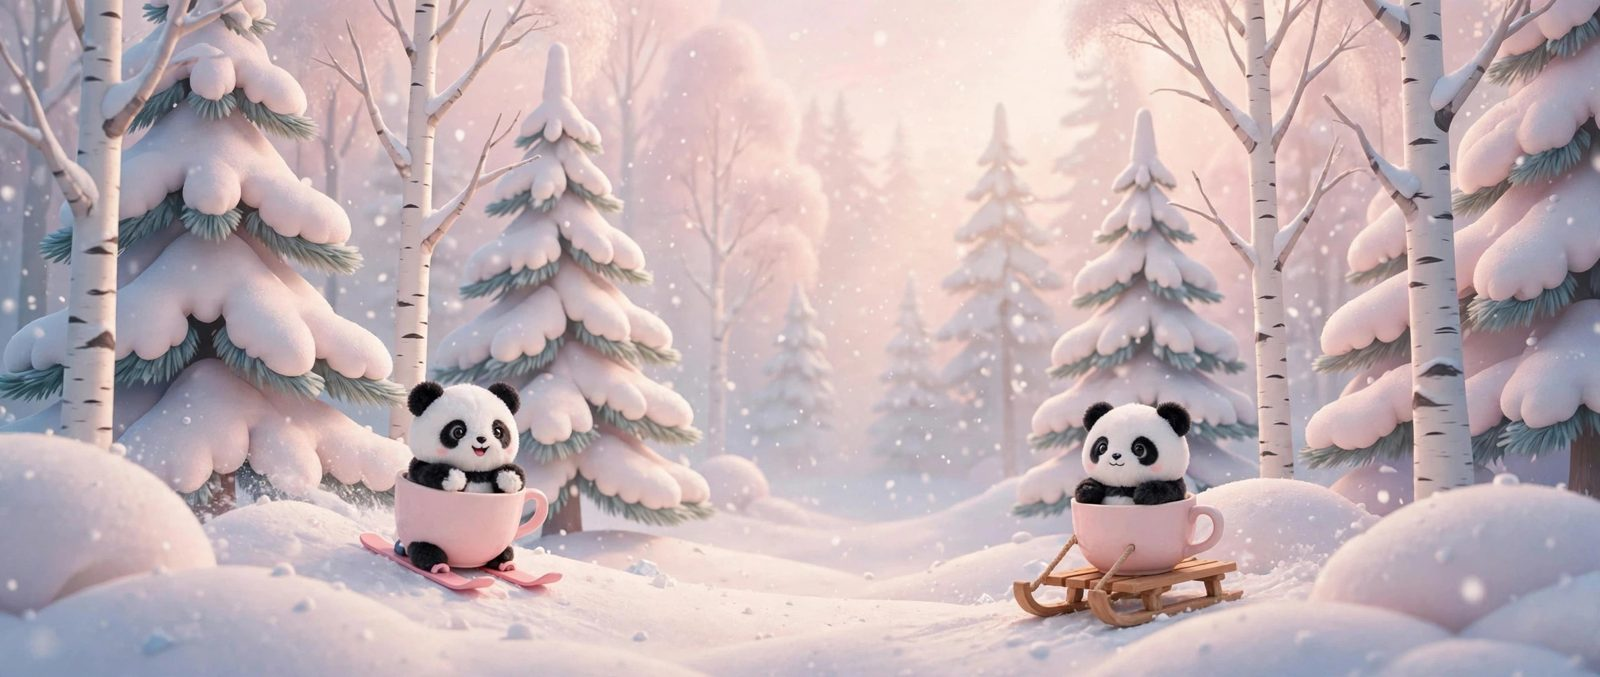
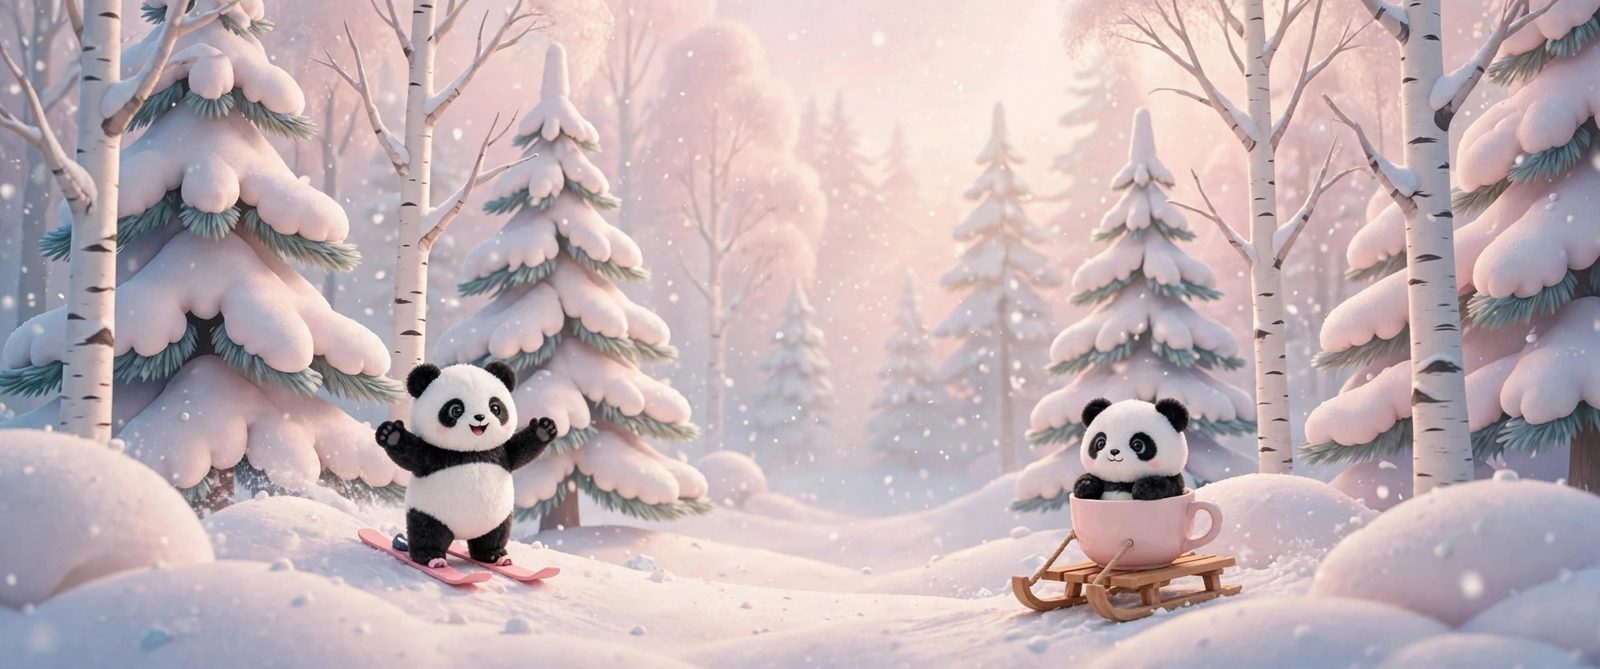
v9 fixes: skiing panda without cup, cap slide image, PDP for all products
- Background: skiing panda now stands on its skis with no cup
- Carousel: Journal Kit slide removed, Panda Cap slide image fixed
  (catalog-models-cap.jpg, the previous filename did not exist)
- Products whose photo does not flip now open their PDP on photo click

diff --git a/index.html b/index.html
@@ -73,7 +73,7 @@ footer{padding:30px 18px 44px;text-align:center;color:var(--soft);font-size:13px
 footer a{color:var(--pink-deep);font-weight:700;text-decoration:none}
 
 .hero{position:relative;overflow:hidden}
-.hero::before{content:"";position:absolute;inset:0;background:url('images/bg-winter.jpg?v=8') center/cover no-repeat;opacity:.5;z-index:0}
+.hero::before{content:"";position:absolute;inset:0;background:url('images/bg-winter.jpg?v=9') center/cover no-repeat;opacity:.5;z-index:0}
 .hero>*{position:relative;z-index:1}
 .carousel{position:relative;width:min(600px,92vw);margin:0 auto;border-radius:24px;overflow:hidden;border:6px solid #fff;box-shadow:0 10px 30px rgba(199,78,114,.25);background:#fdf3f5}
 .carousel .track{display:flex;transition:transform .55s ease}
@@ -110,7 +110,7 @@ footer a{color:var(--pink-deep);font-weight:700;text-decoration:none}
 </style></head><body>
 <div class="bar">🎉 Opening soon — <b>Free delivery over <span id="thresh">£35</span></b> in the UK, Ireland &amp; Europe · New drops every Friday!</div>
 <header><div class="logo"><img src="images/logo-badge.png" alt="Cuppa Panda logo">Cuppa<span>Panda</span></div><nav><a href="#best">Bestsellers</a><a href="#merch">Merch</a><a href="#hero-pick">Journal Kit</a><a href="#blindbox">Blind Box</a><a href="#treats">Little Treats</a></nav><div class="curry"><button data-cur="GBP" class="on">£ GBP</button><button data-cur="EUR">€ EUR</button><button data-cur="USD">$ USD</button></div><button class="cartbtn" id="cartBtn" type="button">🛒 Cart (<span id="cartCount">0</span>)</button></header>
-<div class="hero"><div class="carousel" id="heroCarousel"><div class="track"><a class="slide" href="#merch"><img src="images/merch-cap-cream.jpg" alt="Panda Cap — Embroidered"><span class="cap">Panda Cap · <span class="p" data-usd="26.99">$26.99</span></span></a><a class="slide" href="#hero-pick"><img src="images/A-journal-kit-1.jpg" alt="DIY Journal Kit"><span class="cap">DIY Journal Kit · <span class="p" data-usd="18.99">$18.99</span></span></a><a class="slide" href="#best"><img src="images/B-panda-plush-bag-charm-1.jpg" alt="Panda Plush Bag Charm — 15cm"><span class="cap">Panda Plush Bag Charm · <span class="p" data-usd="9.99">$9.99</span></span></a><a class="slide" href="#merch"><img src="images/merch-hoodie-pink.jpg" alt="Cuppa Panda Hoodie — Pink"><span class="cap">Cuppa Panda Hoodie · <span class="p" data-usd="44.99">$44.99</span></span></a><a class="slide" href="#blindbox"><img src="images/C-capybara-blind-box-1.jpg" alt="Capybara Blind Box Figure"><span class="cap">Capybara Blind Box · <span class="p" data-usd="6.49">$6.49</span></span></a><a class="slide" href="#merch"><img src="images/catalog-models-backpack.jpg" alt="Cuppa Panda Backpack — Pink"><span class="cap">Cuppa Panda Backpack · <span class="p" data-usd="47.99">$47.99</span></span></a></div><button class="carbtn prev" type="button" aria-label="Previous slide">‹</button><button class="carbtn next" type="button" aria-label="Next slide">›</button><div class="dots"></div></div><h1>Cute things for your <em>desk</em> &amp; your <em>bag</em></h1><p>Stationery, bag charms and blind boxes — hand-picked by a 14-year-old, for girls who love cute. Now shipping to the UK, Ireland &amp; Europe!</p><a class="btn" href="#best">Shop bestsellers</a><a class="btn ghost" href="#blindbox">Blind boxes 🎁</a></div>
+<div class="hero"><div class="carousel" id="heroCarousel"><div class="track"><a class="slide" href="#merch"><img src="images/catalog-models-cap.jpg" alt="Panda Cap — Embroidered"><span class="cap">Panda Cap · <span class="p" data-usd="26.99">$26.99</span></span></a><a class="slide" href="#best"><img src="images/B-panda-plush-bag-charm-1.jpg" alt="Panda Plush Bag Charm — 15cm"><span class="cap">Panda Plush Bag Charm · <span class="p" data-usd="9.99">$9.99</span></span></a><a class="slide" href="#merch"><img src="images/merch-hoodie-pink.jpg" alt="Cuppa Panda Hoodie — Pink"><span class="cap">Cuppa Panda Hoodie · <span class="p" data-usd="44.99">$44.99</span></span></a><a class="slide" href="#blindbox"><img src="images/C-capybara-blind-box-1.jpg" alt="Capybara Blind Box Figure"><span class="cap">Capybara Blind Box · <span class="p" data-usd="6.49">$6.49</span></span></a><a class="slide" href="#merch"><img src="images/catalog-models-backpack.jpg" alt="Cuppa Panda Backpack — Pink"><span class="cap">Cuppa Panda Backpack · <span class="p" data-usd="47.99">$47.99</span></span></a></div><button class="carbtn prev" type="button" aria-label="Previous slide">‹</button><button class="carbtn next" type="button" aria-label="Next slide">›</button><div class="dots"></div></div><h1>Cute things for your <em>desk</em> &amp; your <em>bag</em></h1><p>Stationery, bag charms and blind boxes — hand-picked by a 14-year-old, for girls who love cute. Now shipping to the UK, Ireland &amp; Europe!</p><a class="btn" href="#best">Shop bestsellers</a><a class="btn ghost" href="#blindbox">Blind boxes 🎁</a></div>
 <div class="marquee">✿ REAL PRODUCT PHOTOS ✿ TAP ANY PHOTO TO SEE ANOTHER ANGLE ✿</div>
 <section id="best"><h2>Bestsellers ⭐</h2><p class="sub">Tap a photo to flip to the second angle 👆 · Prices switch between £ / € / $ at the top</p><div class="grid"><div class="card"><div class="thumb" onclick="flip(this)"><img loading="lazy" decoding="async" src="images/B-panda-plush-bag-charm-1.jpg" data-alt="images/B-panda-plush-bag-charm-2.jpg" alt="Panda Plush Bag Charm — 15cm"><span class="badge ">SHOP ICON</span><span class="flip-hint">👆 tap for angle 2</span></div><div class="body"><h4>Panda Plush Bag Charm — 15cm</h4><div class="price"><span class="p" data-usd="9.99">$9.99</span></div></div></div><div class="card"><div class="thumb" onclick="flip(this)"><img loading="lazy" decoding="async" src="images/C-capybara-blind-box-1.jpg" data-alt="images/C-capybara-blind-box-2.jpg" alt="Capybara Blind Box Figure"><span class="badge lav">MYSTERY</span><span class="flip-hint">👆 tap for angle 2</span></div><div class="body"><h4>Capybara Blind Box Figure</h4><div class="price"><span class="p" data-usd="6.49">$6.49</span></div></div></div><div class="card"><div class="thumb" onclick="flip(this)"><img loading="lazy" decoding="async" src="images/D-beaded-phone-strap-1.jpg" data-alt="images/D-beaded-phone-strap-2.jpg" alt="Beaded Phone Strap — Butterfly & Pearl"><span class="badge mint">VIRAL</span><span class="flip-hint">👆 tap for angle 2</span></div><div class="body"><h4>Beaded Phone Strap — Butterfly & Pearl</h4><div class="price"><span class="p" data-usd="6.49">$6.49</span></div></div></div><div class="card"><div class="thumb" onclick="flip(this)"><img loading="lazy" decoding="async" src="images/E-bread-squishy-set-1.jpg" data-alt="images/E-bread-squishy-set-2.jpg" alt="Slow-Rising Squishy — Bread Set"><span class="flip-hint">👆 tap for angle 2</span></div><div class="body"><h4>Slow-Rising Squishy — Bread Set</h4><div class="price"><span class="p" data-usd="8.99">$8.99</span></div></div></div><div class="card"><div class="thumb" onclick="flip(this)"><img loading="lazy" decoding="async" src="images/F-acetate-claw-clip-set-1.jpg" data-alt="images/F-acetate-claw-clip-set-2.jpg" alt="Acetate Claw Clip Set"><span class="flip-hint">👆 tap for angle 2</span></div><div class="body"><h4>Acetate Claw Clip Set</h4><div class="price"><span class="p" data-usd="6.99">$6.99</span></div></div></div><div class="card"><div class="thumb" onclick="flip(this)"><img loading="lazy" decoding="async" src="images/G-waterproof-sticker-pack-1.jpg" data-alt="images/G-waterproof-sticker-pack-2.jpg" alt="Waterproof Sticker Pack — 50 pcs"><span class="flip-hint">👆 tap for angle 2</span></div><div class="body"><h4>Waterproof Sticker Pack — 50 pcs</h4><div class="price"><span class="p" data-usd="3.49">$3.49</span></div></div></div><div class="card"><div class="thumb" onclick="flip(this)"><img loading="lazy" decoding="async" src="images/H-bread-plush-keychain-1.jpg" data-alt="images/H-bread-plush-keychain-2.jpg" alt="Bread Plush Keychain"><span class="flip-hint">👆 tap for angle 2</span></div><div class="body"><h4>Bread Plush Keychain</h4><div class="price"><span class="p" data-usd="7.49">$7.49</span></div></div></div><div class="card"><div class="thumb" onclick="flip(this)"><img loading="lazy" decoding="async" src="images/I-pastel-highlighters-1.jpg" data-alt="images/I-pastel-highlighters-2.jpg" alt="Pastel Highlighters — 6 Colours"><span class="flip-hint">👆 tap for angle 2</span></div><div class="body"><h4>Pastel Highlighters — 6 Colours</h4><div class="price"><span class="p" data-usd="4.49">$4.49</span></div></div></div></div></section>
 <section id="merch"><h2>Cuppa Panda merch 🧸</h2><p class="sub">Wear the panda! Made to order — printed just for you, ages 14–18 favourites</p><div class="grid"><div class="card"><div class="thumb" style="cursor:default"><img src="images/catalog-models-beanie.jpg" alt="Panda Beanie — Fluffy Face"><span class="badge">NEW</span></div><div class="body"><h4>Panda Beanie — Fluffy Face</h4><div class="price"><span class="p" data-usd="24.99">$24.99</span></div><p style="color:var(--soft);font-size:12px;margin-top:3px">Pink · Mint · Cream · One size</p></div></div><div class="card"><div class="thumb" style="cursor:default"><img src="images/catalog-models-cap.jpg" alt="Panda Cap — Embroidered"><span class="badge">NEW</span></div><div class="body"><h4>Panda Cap — Embroidered</h4><div class="price"><span class="p" data-usd="26.99">$26.99</span></div><p style="color:var(--soft);font-size:12px;margin-top:3px">Pink · Cream · Adjustable</p></div></div><div class="card"><div class="thumb" style="cursor:default"><img src="images/merch-hoodie-pink.jpg" alt="Cuppa Panda Hoodie — Pink"><span class="badge">NEW MERCH</span></div><div class="body"><h4>Cuppa Panda Hoodie — Pink</h4><div class="price"><span class="p" data-usd="44.99">$44.99</span></div><p style="color:var(--soft);font-size:12px;margin-top:3px">Sizes XS–XL · Oversized fit · Big front print</p></div></div><div class="card"><div class="thumb" style="cursor:default"><img src="images/merch-sweatshirt-cream.jpg" alt="Panda Sweatshirt — Cream"></div><div class="body"><h4>Panda Sweatshirt — Cream</h4><div class="price"><span class="p" data-usd="39.99">$39.99</span></div><p style="color:var(--soft);font-size:12px;margin-top:3px">Sizes XS–XL · Embroidered panda chest logo</p></div></div><div class="card"><div class="thumb" style="cursor:default"><img src="images/catalog-models-backpack.jpg" alt="Cuppa Panda Backpack — Pink"></div><div class="body"><h4>Cuppa Panda Backpack — Pink</h4><div class="price"><span class="p" data-usd="47.99">$47.99</span></div><p style="color:var(--soft);font-size:12px;margin-top:3px">As worn by Mia · Panda-in-cup print</p></div></div><div class="card"><div class="thumb" style="cursor:default"><img src="images/merch-socks-3pairs.jpg" alt="Panda Socks — 3 Pairs"></div><div class="body"><h4>Panda Socks — 3 Pairs</h4><div class="price"><span class="p" data-usd="16.99">$16.99</span></div><p style="color:var(--soft);font-size:12px;margin-top:3px">Pink / Cream / Mint · One size (UK 3–6)</p></div></div></div></section>
@@ -267,6 +267,8 @@ document.querySelectorAll('.card, #hero-pick').forEach(function(card){
   info.appendChild(vb);
   var title=card.querySelector('h4,h3');
   if(title) title.addEventListener('click',function(){ openPDP(card); });
+  var thumb=card.querySelector('.thumb');
+  if(thumb && !thumb.getAttribute('onclick')){ thumb.style.cursor='pointer'; thumb.addEventListener('click',function(){ openPDP(card); }); }
 });
 document.querySelectorAll('#heroCarousel .slide').forEach(function(slide){
   slide.addEventListener('click',function(e){
